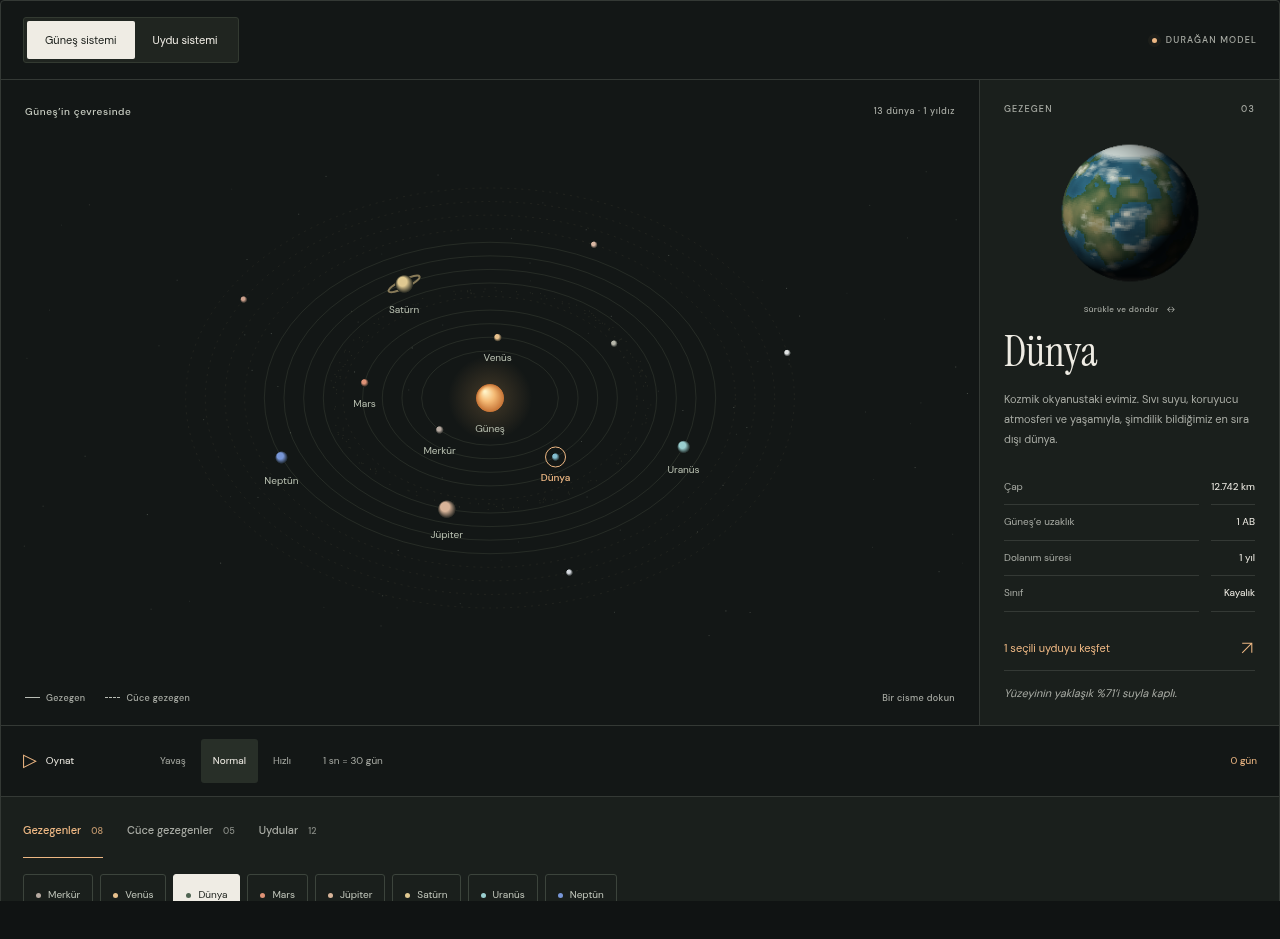
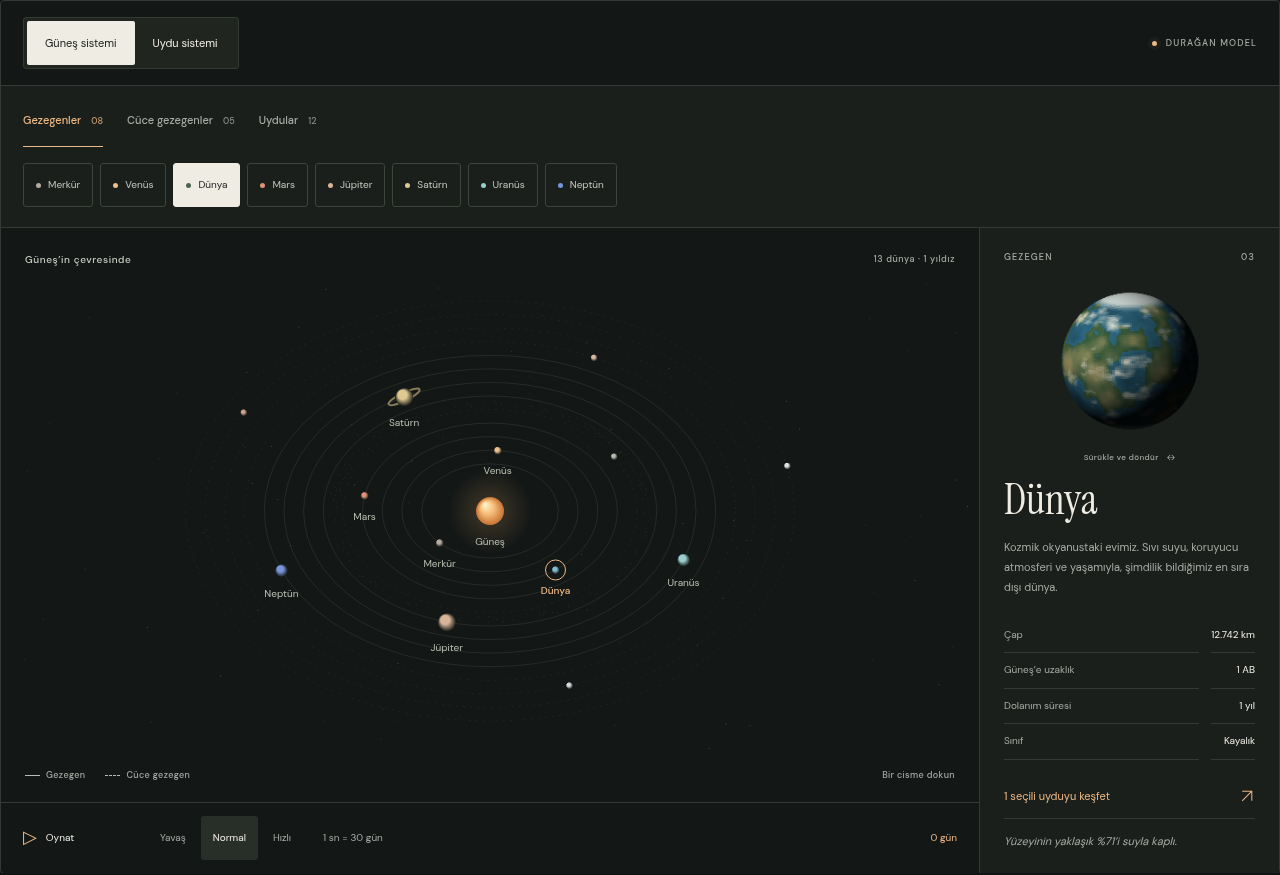
Bring mobile atlas controls closer and clarify Pluto barycentre

diff --git a/index.html b/index.html
@@ -150,6 +150,27 @@
               ><span id="model-status">HAREKETLİ MODEL</span></span
             >
           </div>
+          <div class="body-browser">
+            <div
+              class="filter-controls"
+              role="group"
+              aria-label="Gök cismi kategorisi"
+            >
+              <button data-filter="planet" aria-pressed="true">
+                Gezegenler <span>08</span></button
+              ><button data-filter="dwarf" aria-pressed="false">
+                Cüce gezegenler <span>05</span></button
+              ><button data-filter="moon" aria-pressed="false">
+                Uydular <span>12</span>
+              </button>
+            </div>
+            <div
+              id="picker"
+              class="picker"
+              role="group"
+              aria-label="Gök cismi seç"
+            ></div>
+          </div>
           <div class="atlas-content">
             <div class="orbit-panel">
               <div class="orbit-heading">
@@ -171,9 +192,9 @@
               <canvas
                 id="orr"
                 tabindex="0"
-                aria-label="Etkileşimli yörünge modeli. Cisim seçmek için aşağıdaki düğmeleri veya sağ ve sol ok tuşlarını kullan."
+                aria-label="Etkileşimli yörünge modeli. Cisim seçim düğmelerini veya sağ ve sol ok tuşlarını kullan."
                 aria-describedby="model-note"
-                >Modeldeki cisimleri aşağıdaki seçim düğmelerinden
+                >Modeldeki cisimleri seçim düğmelerinden
                 keşfedebilirsin.</canvas
               >
               <div class="orbit-legend">
@@ -183,6 +204,25 @@
                 ><span id="dwarf-legend"
                   ><i class="legend-line dashed"></i> Cüce gezegen</span
                 ><span id="orbit-hint">Bir cisme dokun ↗</span>
+              </div>
+              <div class="atlas-controls">
+                <button id="pp" class="pause-button" aria-pressed="false">
+                  <span aria-hidden="true">Ⅱ</span> Duraklat
+                </button>
+                <div
+                  class="speed-controls"
+                  role="group"
+                  aria-label="Simülasyon hızı"
+                >
+                  <button data-speed="slow" aria-pressed="false">Yavaş</button
+                  ><button data-speed="normal" aria-pressed="true">
+                    Normal</button
+                  ><button data-speed="fast" aria-pressed="false">Hızlı</button>
+                </div>
+                <span id="speed-label">1 sn = 30 gün</span
+                ><output id="clock" aria-label="Modelde geçen süre"
+                  >0 gün</output
+                >
               </div>
             </div>
             <aside class="body-detail" aria-labelledby="pname">
@@ -222,43 +262,6 @@
               </button>
               <p class="detail-fact" id="pfact"></p>
             </aside>
-          </div>
-          <div class="atlas-controls">
-            <button id="pp" class="pause-button" aria-pressed="false">
-              <span aria-hidden="true">Ⅱ</span> Duraklat
-            </button>
-            <div
-              class="speed-controls"
-              role="group"
-              aria-label="Simülasyon hızı"
-            >
-              <button data-speed="slow" aria-pressed="false">Yavaş</button
-              ><button data-speed="normal" aria-pressed="true">Normal</button
-              ><button data-speed="fast" aria-pressed="false">Hızlı</button>
-            </div>
-            <span id="speed-label">1 sn = 30 gün</span
-            ><output id="clock" aria-label="Modelde geçen süre">0 gün</output>
-          </div>
-          <div class="body-browser">
-            <div
-              class="filter-controls"
-              role="group"
-              aria-label="Gök cismi kategorisi"
-            >
-              <button data-filter="planet" aria-pressed="true">
-                Gezegenler <span>08</span></button
-              ><button data-filter="dwarf" aria-pressed="false">
-                Cüce gezegenler <span>05</span></button
-              ><button data-filter="moon" aria-pressed="false">
-                Uydular <span>12</span>
-              </button>
-            </div>
-            <div
-              id="picker"
-              class="picker"
-              role="group"
-              aria-label="Gök cismi seç"
-            ></div>
           </div>
         </div>
         <p class="model-note" id="model-note">

diff --git a/script.js b/script.js
@@ -464,7 +464,7 @@
     ctx.drawImage(backdrop, 0, 0, width, height);
     positions = plotted.map((body, index) => {
       const p = point(body, index);
-      const r =
+      let r =
         index === 0
           ? view === "solar"
             ? 14
@@ -474,6 +474,15 @@
             : body.kind === "dwarf"
               ? 3.5
               : Math.max(4, Math.min(9, body.diameter / 15000 + 3));
+      if (view === "moons" && host === "pluto") {
+        // Keep the barycentre visibly outside Pluto at every projected angle.
+        // Other system sizes are schematic; this pair preserves its diameter ratio.
+        const plutoRadius = Math.min(18, pathRadii[1] * 0.1085 * flatten * 0.6);
+        r =
+          index === 0
+            ? plutoRadius
+            : plutoRadius * (body.diameter / byId.get("pluto").diameter);
+      }
       if (!index && view === "solar") {
         const glow = ctx.createRadialGradient(p.x, p.y, 6, p.x, p.y, 42);
         glow.addColorStop(0, "#f0b46930");

diff --git a/style.css b/style.css
@@ -432,7 +432,7 @@ h2 {
   background: transparent;
   font-size: 11px;
   padding: 9px 18px;
-  min-height: 38px;
+  min-height: 44px;
   border-radius: 2px;
 }
 .segmented button[aria-pressed="true"] {
@@ -2072,4 +2072,14 @@ body.modal-open {
 }
 .hero-visual {
   overflow: hidden;
+}
+
+/* Keep model controls adjacent to the canvas, ahead of the detail card. */
+.atlas-top + .body-browser {
+  border-top: 0;
+  border-bottom: 1px solid var(--line);
+}
+.orbit-panel > .atlas-controls {
+  flex-wrap: wrap;
+  row-gap: 4px;
 }

diff --git a/reports/performance.md b/reports/performance.md
@@ -75,3 +75,11 @@ Yayın öncesi gerçek cihazda yapılacaklar:
 5. Uzun süre kullanımda belleği, resim büyütme/kapatmayı ve arka plan sekmesinden dönüşü gözle.
 
 Çalışan uygulamaya yeni üçüncü taraf JavaScript kütüphanesi eklenmedi. Test araçları yalnızca geliştirme ortamında kullanılıyor.
+
+## 12 Ekim: son mobil kullanım düzenlemesi
+
+Cisim seçici çizimin üstüne, duraklatma ve hız kontrolleri çizimin hemen altına taşındı. Mobilde uzun bilgi kartını geçmeden model kullanılabiliyor; DOM ve klavye sırası da görsel sırayla aynı. Görünüm düğmeleri 44 px yüksekliğe çıkarıldı. Testlere kontrol sırası ve görünür düğmelerin minimum dokunma yüksekliği kontrolleri eklendi.
+
+Plüton–Charon görünümünde küre çapları, ortak kütle merkezi işaretinin tüm yörünge açıları ve ekran genişliklerinde Plüton’un dışında kalacağı biçimde ayarlandı; iki cismin çap oranı bu görünümde korunuyor. Başlangıç konumu ve mesafe şematik olmaya devam ediyor. Önizlemeler son düzeni gösteriyor; modül görüntülerinde üst gezinme çubuğu kırpma dışı bırakılmıştır.
+
+Bu son düzenlemeden sonra Chromium ve WebKit testlerinin tamamı tekrar geçti. Üç yeni mobil Lighthouse koşusu **95, 94, 96** verdi; medyan **95** kaldı. Erişilebilirlik, iyi uygulamalar ve SEO her koşuda **100**. Son medyanlar: FCP **1,73 sn**, LCP **2,25 sn**, TBT **190 ms**, CLS **0.00022**. Son kontrol kayıtları: [final-lighthouse-summary.json](final-lighthouse-summary.json).
